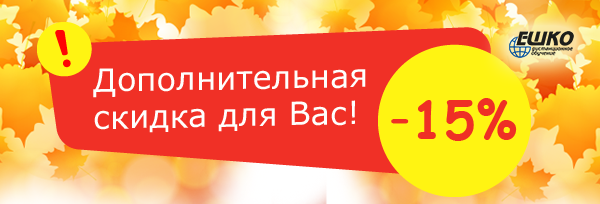
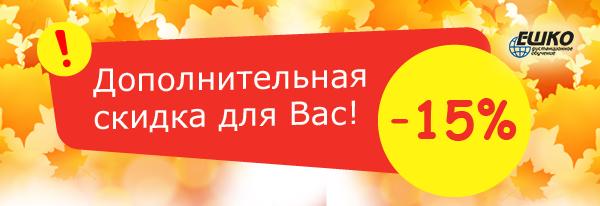
background-image corrected

diff --git a/letter/index_inline.html b/letter/index_inline.html
@@ -308,9 +308,9 @@ table .footer{
 
 .img{
     background-image: url('https://www.eshko.ua/content/email/2017-09-01-rest-of-materials/background.png');
-    background-size: cover;
+    background-size: contain;
     background-repeat: no-repeat;
-    height: 200px;
+    height: 205px;
 }
 
 .sale{
@@ -428,7 +428,7 @@ table .footer{
                                     <td>
                                         <table class="footer inner">
                                             <tr class = "contacts">
-                                                <td style="width:40%;">
+                                                <td style="width:45%;">
                                                     <table>
                                                         <tr>
                                                             <td class="icon"><img src="https://www.eshko.ua/content/email/2017-09-01-rest-of-materials/call.png" alt="" /></td>
@@ -439,7 +439,7 @@ table .footer{
                                                         </tr>
                                                     </table>
                                                 </td>
-                                                <td style="width:40%;">
+                                                <td style="width:45%;">
                                                     <table>
                                                         <tr>
                                                             <td class="icon"><img src="https://www.eshko.ua/content/email/2017-09-01-rest-of-materials/mouse.png" alt="" /></td>
@@ -447,7 +447,7 @@ table .footer{
                                                         </tr>
                                                     </table>
                                                 </td>
-                                                <td style="width:33%;">
+                                                <td style="width:10%;">
                                                     
                                                 </td>
                                             </tr>

diff --git a/letter/index.html b/letter/index.html
@@ -309,9 +309,9 @@ table .footer{
 
 .img{
     background: url('img/background.png');
-    background-size: cover;
+    background-size: contain;
     background-repeat: no-repeat;
-    height: 200px;
+    height: 205px;
 }
 
 
@@ -430,7 +430,7 @@ table .footer{
                                     <td>
                                         <table class="footer inner">
                                             <tr class = "contacts">
-                                                <td style="width:40%;">
+                                                <td style="width:45%;">
                                                     <table>
                                                         <tr>
                                                             <td class="icon"><img src="img/call.png" alt="" /></td>
@@ -441,7 +441,7 @@ table .footer{
                                                         </tr>
                                                     </table>
                                                 </td>
-                                                <td style="width:40%;">
+                                                <td style="width:45%;">
                                                     <table>
                                                         <tr>
                                                             <td class="icon"><img src="img/mouse.png" alt="" /></td>
@@ -449,7 +449,7 @@ table .footer{
                                                         </tr>
                                                     </table>
                                                 </td>
-                                                <td style="width:33%;">
+                                                <td style="width:10%;">
                                                     
                                                 </td>
                                             </tr>
